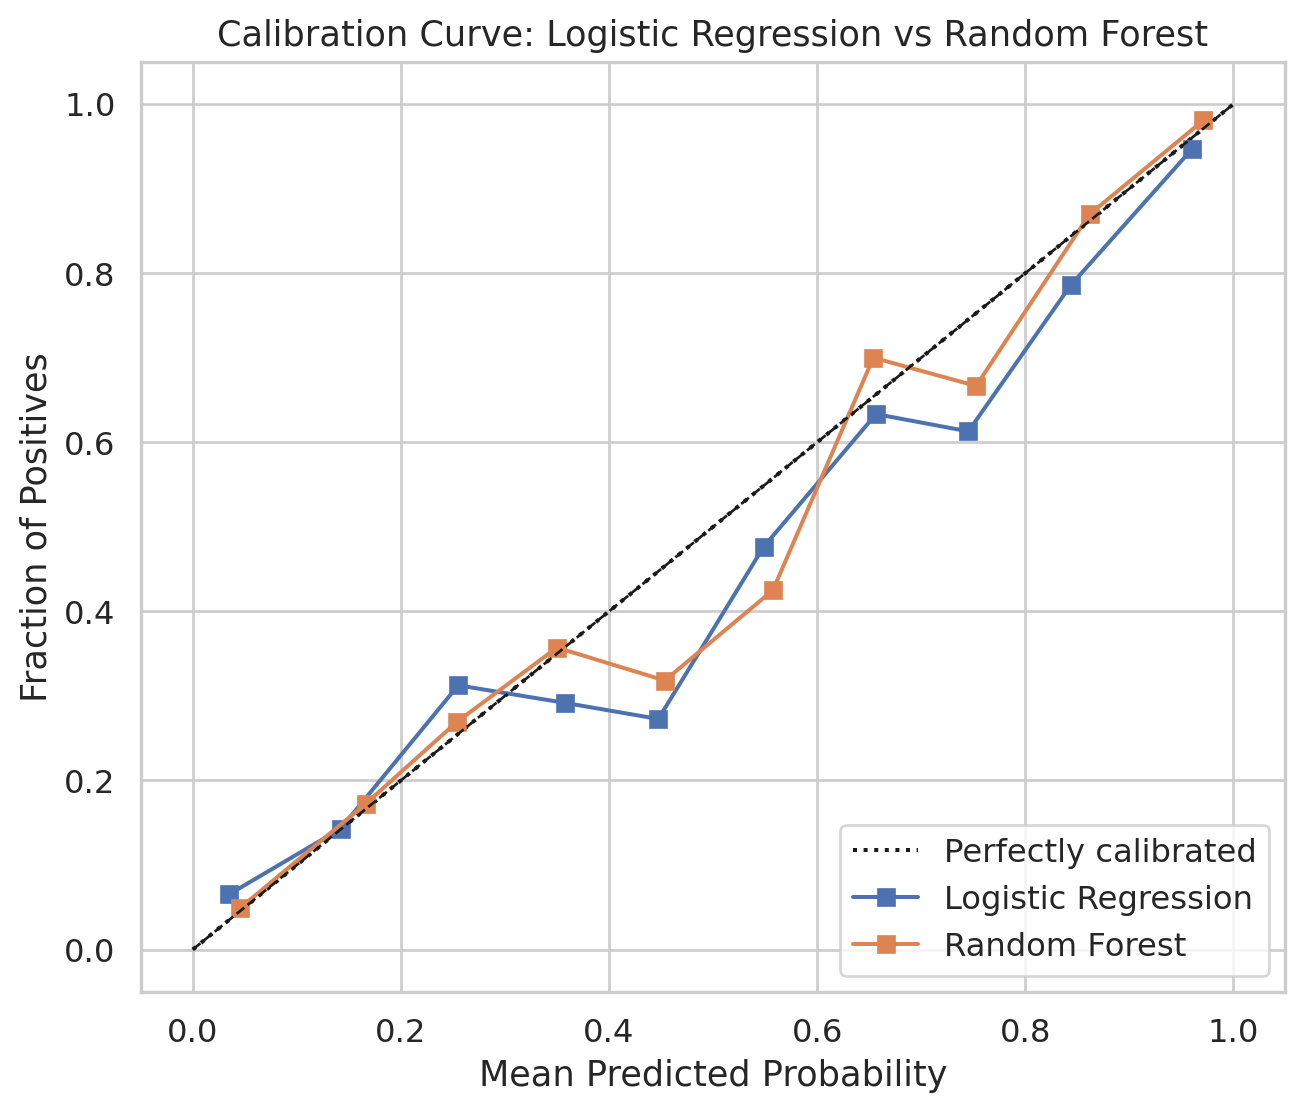
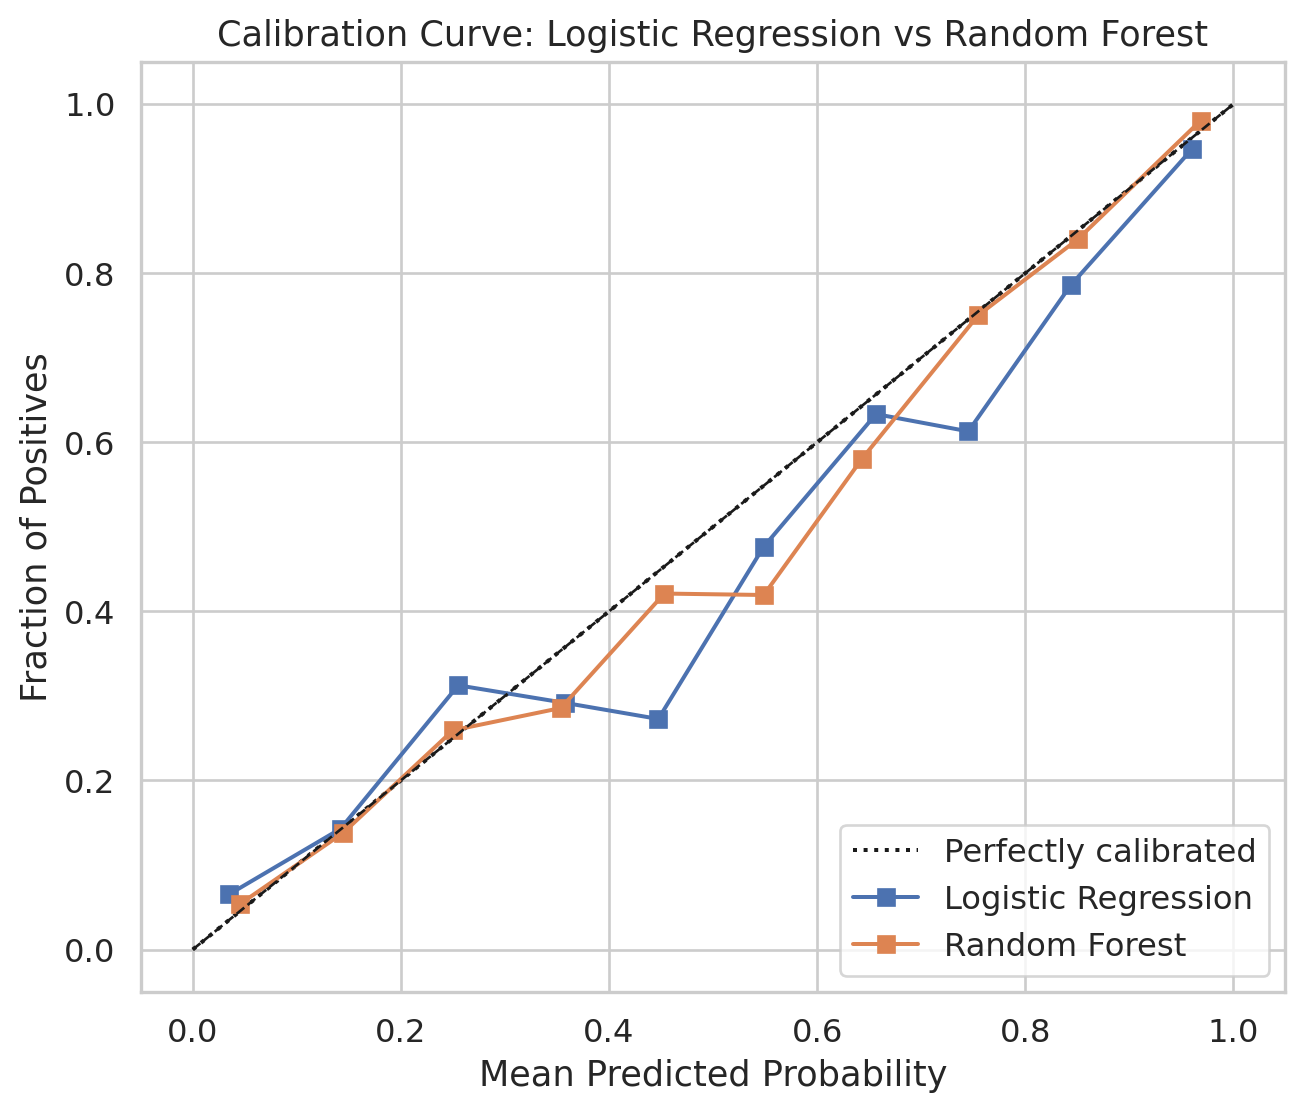
Built site for gh-pages

diff --git a/presentation.html b/presentation.html
@@ -223,7 +223,7 @@ Ava Lasater
 </section>
 <section id="correlation-matrix-of-numerical-features" class="slide level2 smaller">
 <h2>Correlation Matrix of Numerical Features</h2>
-<div id="009161f5" class="cell" data-fig-height="6" data-fig-responsive="false" data-fig-width="8" data-execution_count="4">
+<div id="34e591a4" class="cell" data-fig-height="6" data-fig-responsive="false" data-fig-width="8" data-execution_count="4">
 <div class="cell-output cell-output-display">
 <div class="quarto-figure quarto-figure-center">
 <figure>
@@ -264,7 +264,7 @@ Ava Lasater
 </section>
 <section id="linear-regression-results-1" class="slide level2 smaller">
 <h2>Linear Regression Results</h2>
-<div id="6e21fd43" class="cell" data-fig-height="6" data-fig-responsive="false" data-fig-width="8" data-execution_count="5">
+<div id="b04969b7" class="cell" data-fig-height="6" data-fig-responsive="false" data-fig-width="8" data-execution_count="5">
 <div class="cell-output cell-output-stdout">
 <pre><code>Mean Squared Error: 110300510.89
 R-squared: 0.4855</code></pre>
@@ -295,7 +295,7 @@ R-squared: 0.4855</code></pre>
 </section>
 <section id="ridge-regression-results-1" class="slide level2 smaller">
 <h2>Ridge Regression Results</h2>
-<div id="4e98e408" class="cell" data-fig-height="6" data-fig-responsive="false" data-fig-width="10" data-execution_count="6">
+<div id="a38d10f6" class="cell" data-fig-height="6" data-fig-responsive="false" data-fig-width="10" data-execution_count="6">
 <div class="cell-output cell-output-stdout">
 <pre><code>Ridge Regression:
 Mean Squared Error: 110226157.793066
@@ -329,7 +329,7 @@ R-squared: 0.48583010161522244</code></pre>
 </section>
 <section id="selectkbest-feature-selection" class="slide level2">
 <h2>SelectKBest Feature Selection</h2>
-<div id="cc7352df" class="cell" data-fig-height="6" data-fig-responsive="false" data-fig-width="10" data-execution_count="7">
+<div id="847f6050" class="cell" data-fig-height="6" data-fig-responsive="false" data-fig-width="10" data-execution_count="7">
 <div class="cell-output cell-output-display">
 <div class="quarto-figure quarto-figure-center">
 <figure>
@@ -360,11 +360,21 @@ R-squared: 0.48583010161522244</code></pre>
 </section>
 <section id="permutation-importance" class="slide level2">
 <h2>Permutation Importance</h2>
-<div id="03011304" class="cell" data-fig-height="6" data-fig-responsive="false" data-fig-width="10" data-execution_count="8">
+<div id="811048cc" class="cell" data-fig-height="6" data-fig-responsive="false" data-fig-width="10" data-execution_count="8">
+<div class="cell-output cell-output-stdout">
+<pre><code>Top 15 features:</code></pre>
+</div>
 <div class="cell-output cell-output-display">
 <div class="quarto-figure quarto-figure-center">
 <figure>
-<p><img data-src="presentation_files/figure-revealjs/cell-9-output-1.png" class="quarto-figure quarto-figure-center" width="940" height="556"></p>
+<p><img data-src="presentation_files/figure-revealjs/cell-9-output-2.png" class="quarto-figure quarto-figure-center" width="1026" height="535"></p>
+</figure>
+</div>
+</div>
+<div class="cell-output cell-output-display">
+<div class="quarto-figure quarto-figure-center">
+<figure>
+<p><img data-src="presentation_files/figure-revealjs/cell-9-output-3.png" class="quarto-figure quarto-figure-center" width="939" height="556"></p>
 </figure>
 </div>
 </div>
@@ -391,10 +401,10 @@ R-squared: 0.48583010161522244</code></pre>
 </section>
 <section id="logistic-regression-results" class="slide level2 smaller">
 <h2>Logistic Regression Results</h2>
-<div id="a750b7e0" class="cell" data-fig-height="5" data-fig-responsive="false" data-fig-width="12" data-execution_count="9">
+<div id="d509a265" class="cell" data-fig-height="5" data-fig-responsive="false" data-fig-width="12" data-execution_count="9">
 <div class="cell-output cell-output-stdout">
 <pre><code>k-Fold F1-Score: 0.80
-k-Fold CV took 0.08 seconds
+k-Fold CV took 0.07 seconds
 
 Logistic Regression Accuracy: 0.7728813559322034
 Logistic Regression Precision: 0.7775823831391786
@@ -436,20 +446,20 @@ Logistic Regression F-1 Score: 0.7719854657317307</code></pre>
 </section>
 <section id="random-forest-results" class="slide level2 smaller">
 <h2>Random Forest Results</h2>
-<div id="e20c7129" class="cell" data-fig-height="5" data-fig-responsive="false" data-fig-width="12" data-execution_count="10">
+<div id="c4bda76c" class="cell" data-fig-height="5" data-fig-responsive="false" data-fig-width="12" data-execution_count="10">
 <div class="cell-output cell-output-stdout">
 <pre><code>Random Forest Cross Validation
 k-Fold F1-Score: 0.81
-k-Fold CV took 1.26 seconds
-Random Forest Accuracy: 0.7694915254237288
-Random Forest Precision: 0.7727836753728403
-Random Forest Recall: 0.7694915254237288
-Random Forest F-1 Score: 0.7688541748027805</code></pre>
+k-Fold CV took 1.09 seconds
+Random Forest Accuracy: 0.7661016949152543
+Random Forest Precision: 0.768961952904861
+Random Forest Recall: 0.7661016949152543
+Random Forest F-1 Score: 0.765536000918228</code></pre>
 </div>
 <div class="cell-output cell-output-display">
 <div class="quarto-figure quarto-figure-center">
 <figure>
-<p><img data-src="presentation_files/figure-revealjs/cell-11-output-2.png" class="quarto-figure quarto-figure-center" width="1223" height="460"></p>
+<p><img data-src="presentation_files/figure-revealjs/cell-11-output-2.png" class="quarto-figure quarto-figure-center" width="1231" height="460"></p>
 </figure>
 </div>
 </div>
@@ -457,7 +467,7 @@ Random Forest F-1 Score: 0.7688541748027805</code></pre>
 </section>
 <section id="calibration-probabilities-vs.-accuracy" class="slide level2 smaller">
 <h2>Calibration: Probabilities vs.&nbsp;Accuracy</h2>
-<div id="fd989769" class="cell" data-fig-height="6" data-fig-responsive="false" data-fig-width="7" data-execution_count="11">
+<div id="8337aed6" class="cell" data-fig-height="6" data-fig-responsive="false" data-fig-width="7" data-execution_count="11">
 <div class="cell-output cell-output-display">
 <div class="quarto-figure quarto-figure-center">
 <figure>
